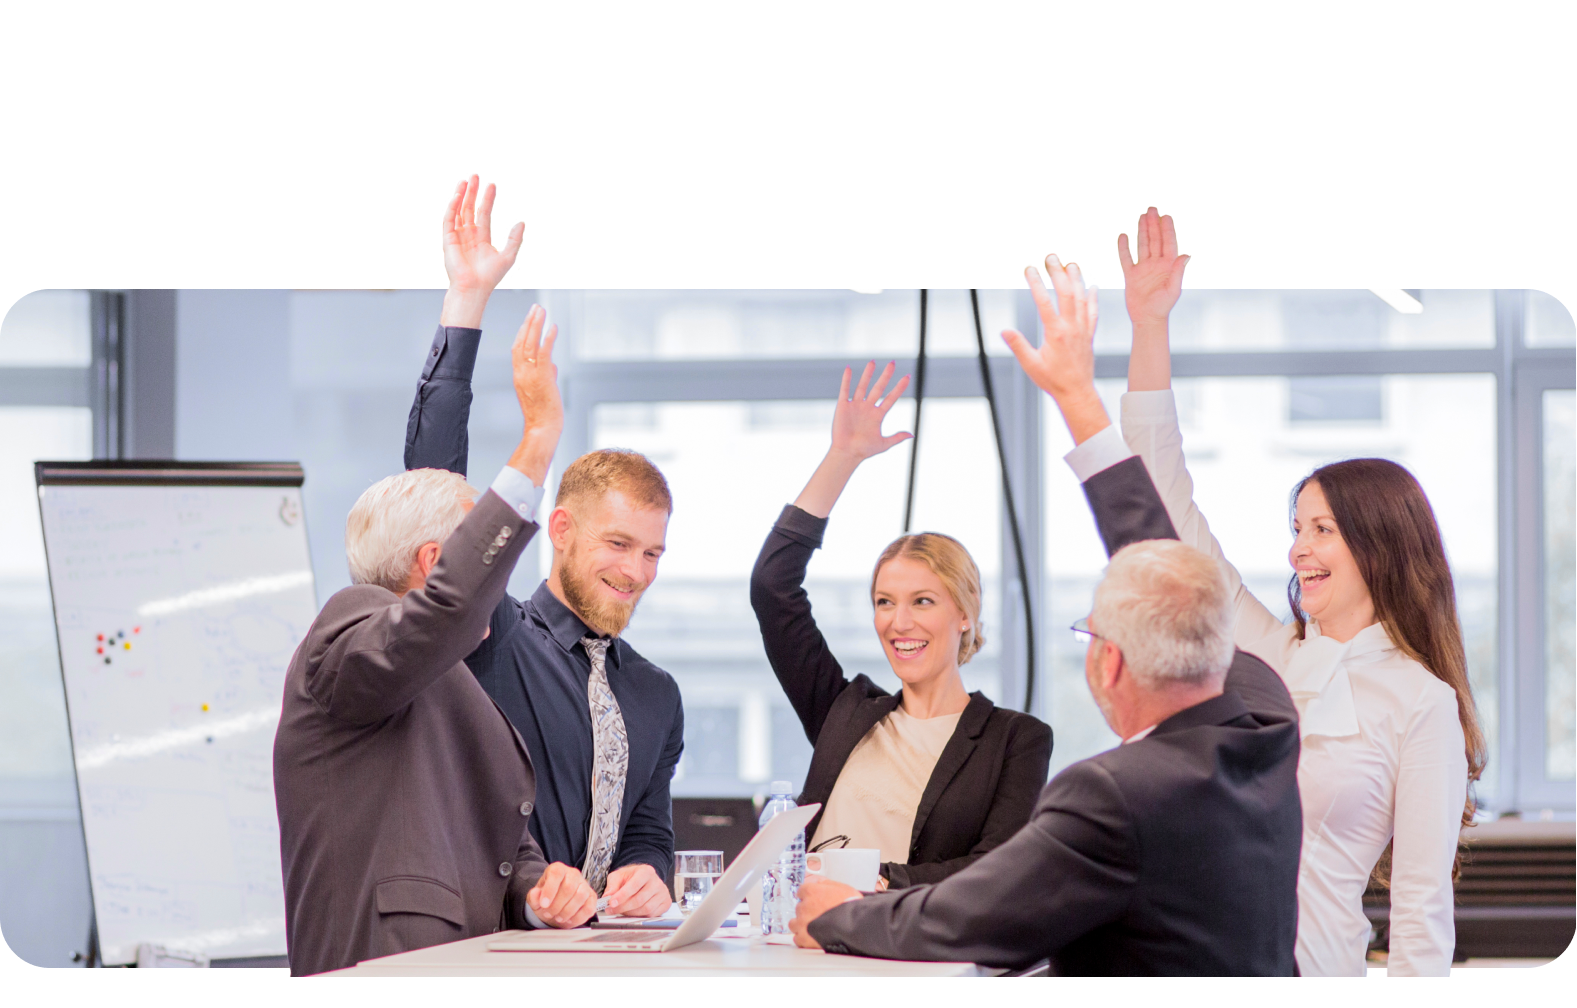
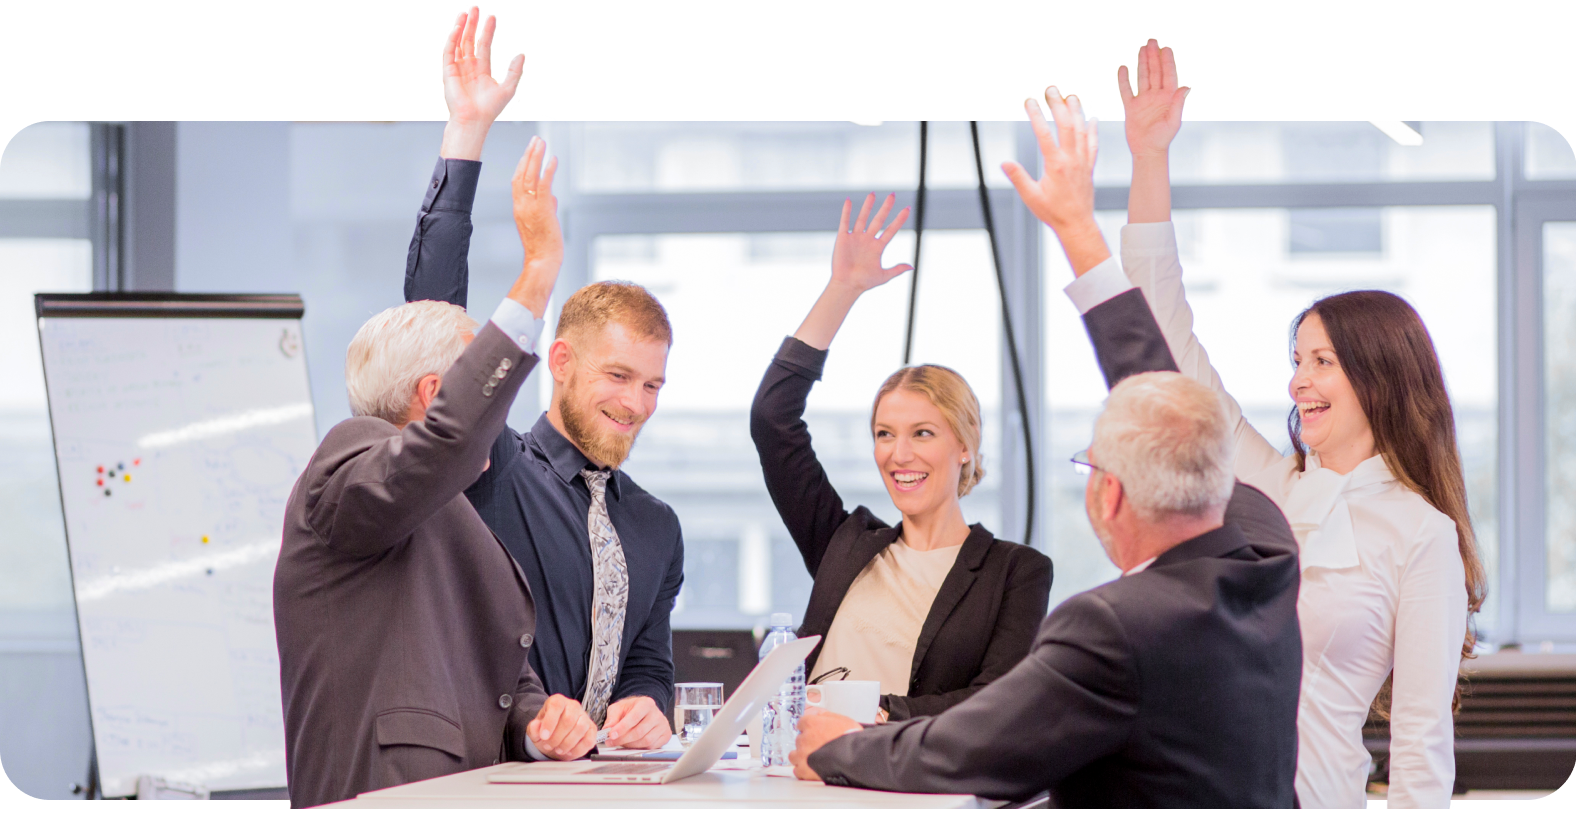
лейзик на главной

diff --git a/src/assets/scss/layout/partials/section/foto-big/_foto-big.scss b/src/assets/scss/layout/partials/section/foto-big/_foto-big.scss
@@ -12,24 +12,27 @@
 
   &-title {
     @include breakpoint($breakpoint-laptop) {
+      margin-bottom: -45px;
       font-size: 70px;
       line-height: 78px;
     }
     @include breakpoint($breakpoint-notebook) {
+      margin-bottom: -35px;
       font-size: 62px;
       line-height: 68px;
     }
     @include breakpoint($breakpoint-tablet) {
-      margin-bottom: 60px;
+      margin-bottom: -15px;
       font-size: 76px;
       line-height: 83px;
     }
     @include breakpoint($breakpoint-mobile) {
-      margin-bottom: 70px;
+      // margin-bottom: 70px;
     }
 
     position: relative;
     z-index: 1;
+    margin-bottom: -50px;
     font-weight: $weight-SemiBold;
     font-size: $font-size__title--large;
     font-family: $font-second;
@@ -51,15 +54,21 @@
 
   &-img {
     @include breakpoint($breakpoint-laptop) {
-      margin-top: -170px;
+      min-height: 600px;
     }
     @include breakpoint($breakpoint-notebook) {
-      margin-top: -110px;
+      min-height: 400px;
+    }
+    @include breakpoint($breakpoint-tablet) {
+      min-height: 200px;
+    }
+    @include breakpoint($breakpoint-mobile) {
+      min-height: 150px;
     }
 
     position: relative;
+    min-height: 750px;
     z-index: 10;
-    margin-top: -218px;
   }
 
   &-info {

diff --git a/src/index.html b/src/index.html
@@ -134,7 +134,7 @@
           <!-- /.foto__big-title -->
 
           <div class="foto__big-img">
-            <!-- <picture class="lazy">
+            <!-- <picture class="">
               <img src="assets/img/layout/section/foto-big/big-foto-titul.png"
                 class="image" alt="">
             </picture> -->

diff --git a/src/layout/index.html b/src/layout/index.html
@@ -13,7 +13,7 @@
           <!-- /.foto__big-title -->
 
           <div class="foto__big-img">
-            <!-- <picture class="lazy">
+            <!-- <picture class="">
               <img src="assets/img/layout/section/foto-big/big-foto-titul.png"
                 class="image" alt="">
             </picture> -->
